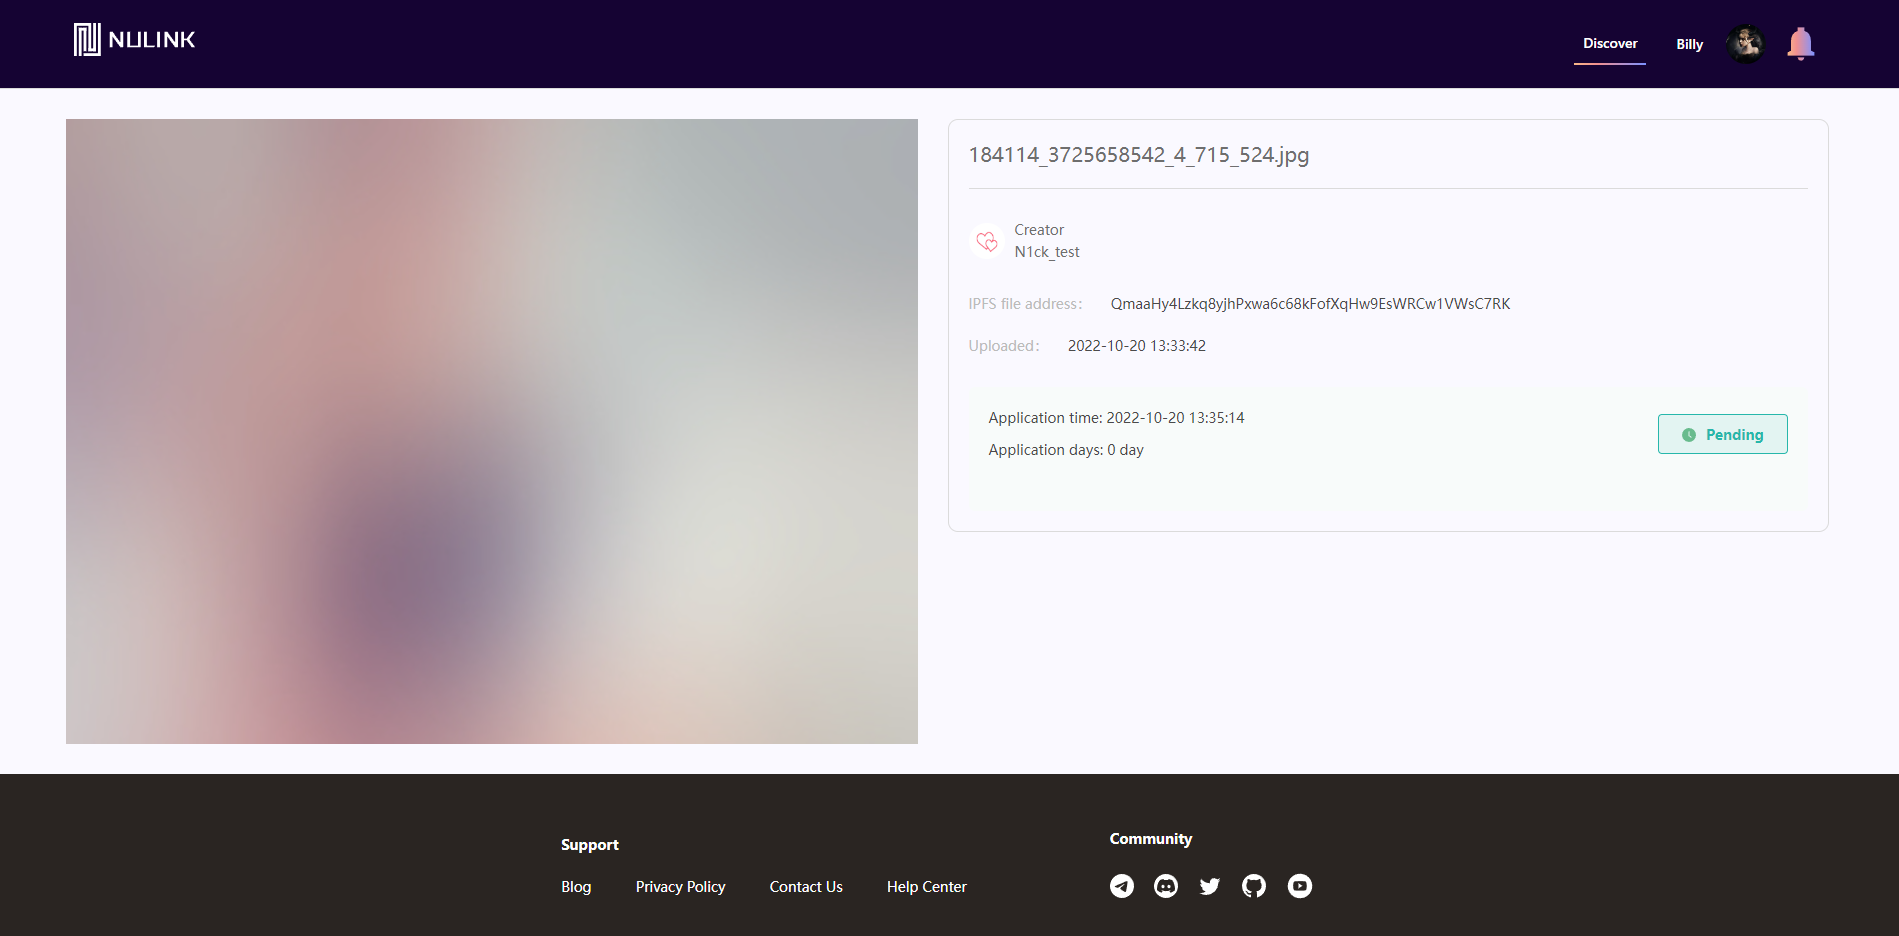
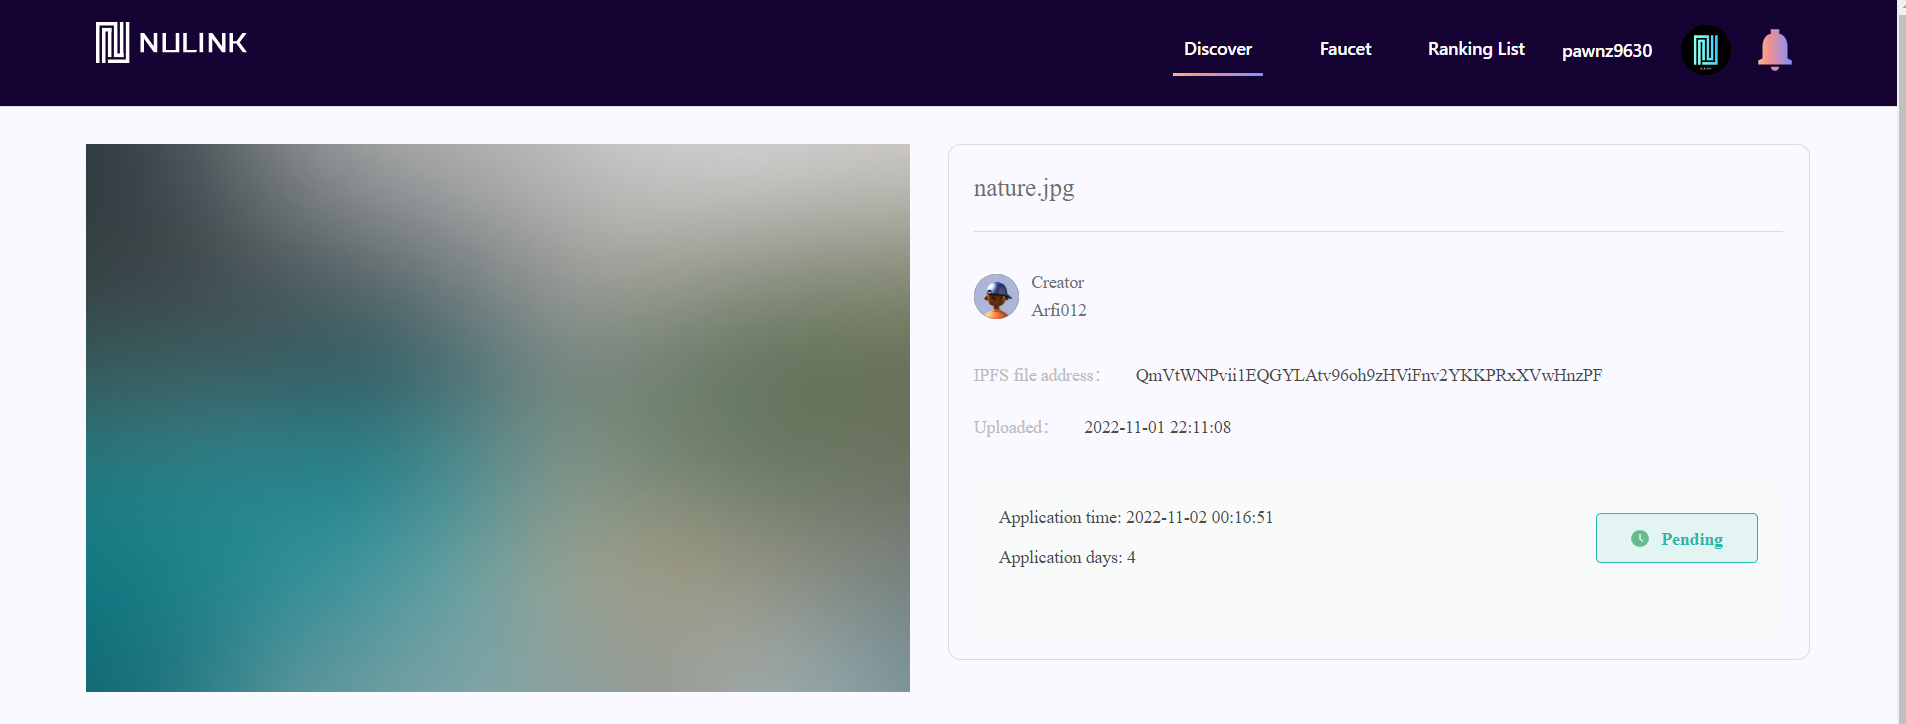
update new content for file sharing dapp

diff --git a/product/file_sharing_Dapp.md b/product/file_sharing_Dapp.md
@@ -1,17 +1,17 @@
-# NuLink File Sharing Dapp
+# NuLink File Sharing Dapp  
 
-## Overview
+## Overview  
 NuLink File Sharing Dapp is the entrypoint for data sharing users to manage the private file and handle the authorization request. Access NuLink File Sharing Dapp [here](https://filetransfer.nulink.org/).  
 
-## Initialization: Connect Agent and Log in
+## Initialization: Connect Agent and Log in  
 Before using NuLink File Sharing Dapp, please click agent button to connect NuLink-agent. 
 How to register and use NuLink-agent please refer to [this link](https://docs.nulink.org/products/nulink_agent).  
 
  ![image](../miscellaneous/img/login.png)  
- 
-After connecting, user can access the NuLink File Sharing Dapp. It includes three pages: Discover page, User Center page and Notification page.  
 
-## Discover Page
+After connecting, user can access the NuLink File Sharing Dapp. It includes five pages: Discover page, Faucet page, Ranking page, User Center page and Notification page.  
+
+## Discover Page  
 Click on the discover button to access discover page. In this page, user can view and search the file uploaded in the NuLink network.   
 
 ![image](../miscellaneous/img/discover.png)  
@@ -37,7 +37,18 @@ After the data owner has completed approval, the applicant can then go to this d
 
 ![image](../miscellaneous/img/approved.png)  
 
-## User Center Page
+## Faucet Page  
+Click the faucet button to claim tNLK and tBNB for later use. Each account can claim tNLK only once. Simply copy your address in the agent to claim the tNLK. And use the link to claim tBNB in bsc-testnet faucet. 
+
+![image](../miscellaneous/img/faucet.png)   
+
+## Ranking Page  
+Click the ranking-list button to check the current ranking of the file-sharing contest.   
+
+![image](../miscellaneous/img/ranking.png)  
+
+
+## User Center Page  
 Click on name/avatar thumbnail button to access user center page. In this page, user can view personal information, including Avatar Thumbnails, Nickname, Wallet Address and Personal Profile. User center page will also display “My files”, “Sent requests”, “Incoming requests” and “My vault”.  
 
 ![image](../miscellaneous/img/usercenter.png)  
